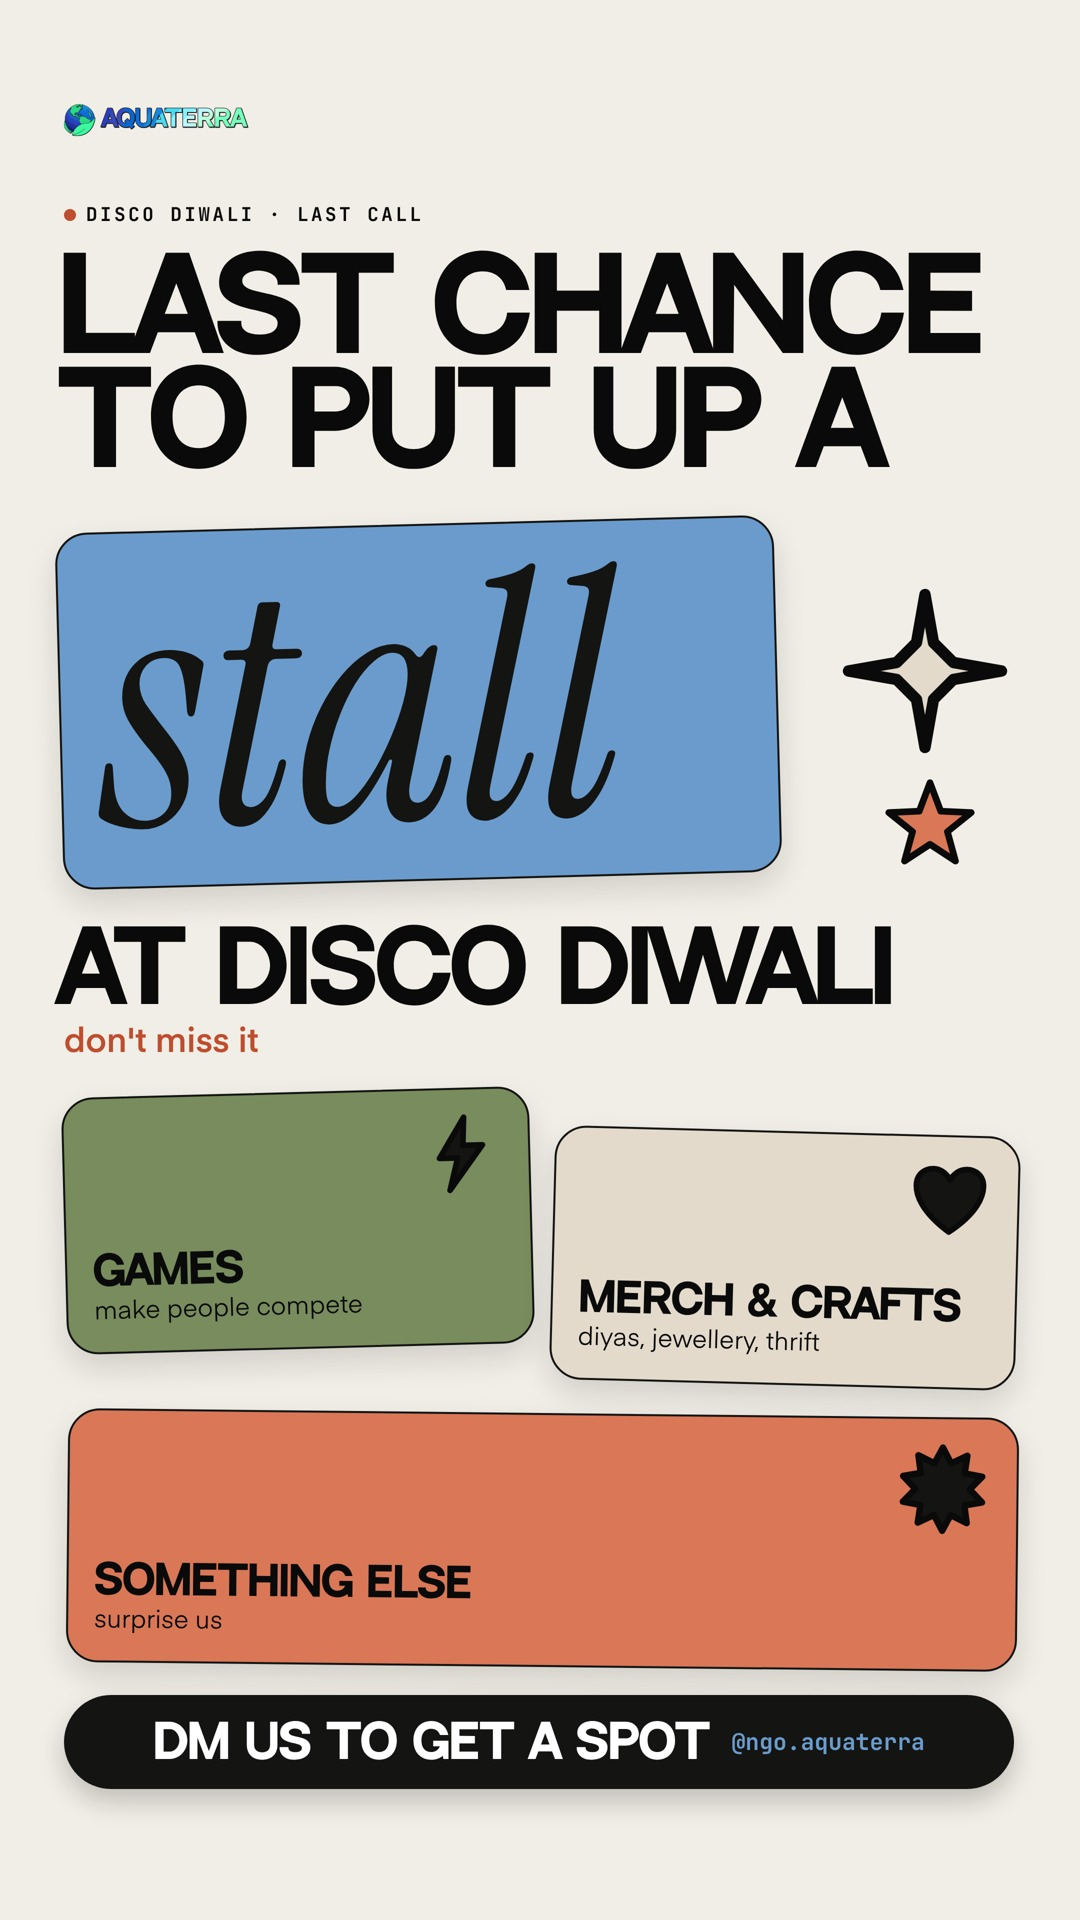
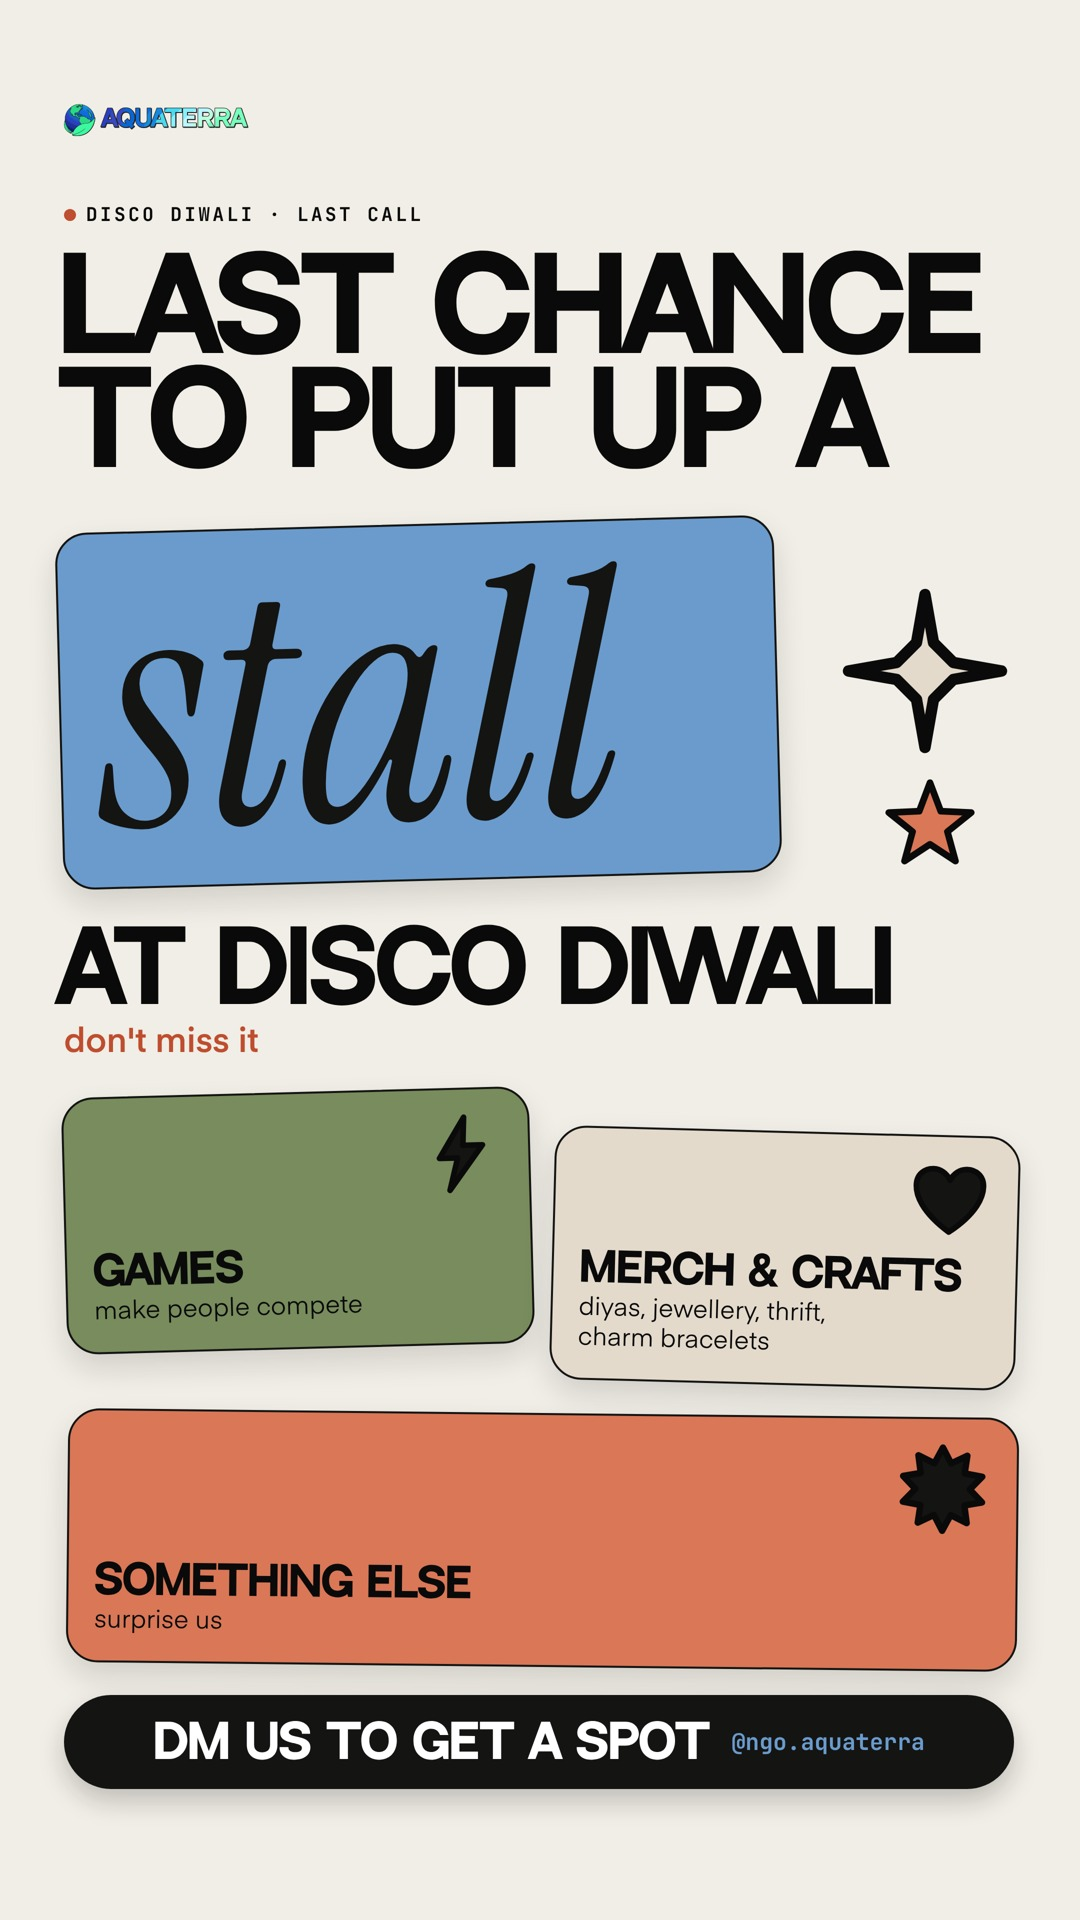
Stall story: add charm bracelets to Merch & Crafts (both versions)
Claude-Session: https://claude.ai/code/session_017A2oA4MRrkhFzniGBhMWFu

Changed region(s): [[0.5194, 0.625, 0.8861, 0.7188]]

diff --git a/scratchpad/dd_stall_call_claude.py b/scratchpad/dd_stall_call_claude.py
@@ -48,9 +48,9 @@ def card(tag, x, y, w, h, fill, rot, title, sub, icon, icon_fill, isz):
                  f'<div data-tag="{tag}_t" style="position:absolute;left:26px;bottom:24px;color:{fg}"><div style="font-family:var(--d);font-weight:900;font-size:40px;line-height:1;text-transform:uppercase;letter-spacing:-.01em">{title}</div>'
                  f'<div style="font-family:var(--e);font-weight:500;font-size:25px;line-height:1.2;margin-top:6px;text-transform:lowercase">{sub}</div></div>'
                  f'<div data-tag="{tag}_i" style="position:absolute;right:26px;top:22px;width:{isz}px;height:{isz}px">{dd.stamp(icon, icon_fill)}</div></div>')
-    els.extend([(tag, x, y, w + 10, h + 10), (tag + "_t", x + 26, y + h - 90, 380, 70), (tag + "_i", x + w - isz - 26, y + 22, isz, isz)])
+    els.extend([(tag, x, y, w + 10, h + 10), (tag + "_t", x + 26, y + h - 124, 400, 104), (tag + "_i", x + w - isz - 26, y + 22, isz, isz)])
 card("c1", 64, 1092, 468, 257, A[5], -1.5, "Games", "make people compete", "lightning", INK, 84)
-card("c2", 552, 1131, 466, 254, A[2], 1.5, "Merch &amp; crafts", "diyas, jewellery, thrift", "heart", INK, 84)
+card("c2", 552, 1131, 466, 254, A[2], 1.5, "Merch &amp; crafts", "diyas, jewellery, thrift,<br>charm bracelets", "heart", INK, 84)
 card("c3", 67, 1413, 951, 254, A[0], .6, "Something else", "surprise us", "burst", INK, 96)
 # CTA pill
 px, py, pw, ph = 64, 1695, 950, 94

diff --git a/scratchpad/dd_stall_call_cream.py b/scratchpad/dd_stall_call_cream.py
@@ -45,9 +45,9 @@ def card(tag, x, y, w, h, fill, rot, title, sub, icon, icon_fill, isz):
                  f'<div data-tag="{tag}_t" style="position:absolute;left:26px;bottom:24px;color:{fg}"><div style="font-family:var(--d);font-weight:900;font-size:40px;line-height:1;text-transform:uppercase;letter-spacing:-.01em">{title}</div>'
                  f'<div style="font-family:var(--e);font-weight:500;font-size:25px;line-height:1.2;margin-top:6px;text-transform:lowercase">{sub}</div></div>'
                  f'<div data-tag="{tag}_i" style="position:absolute;right:26px;top:22px;width:{isz}px;height:{isz}px">{dd.stamp(icon, icon_fill)}</div></div>')
-    els.extend([(tag, x, y, w + 10, h + 10), (tag + "_t", x + 26, y + h - 90, 380, 70), (tag + "_i", x + w - isz - 26, y + 22, isz, isz)])
+    els.extend([(tag, x, y, w + 10, h + 10), (tag + "_t", x + 26, y + h - 124, 400, 104), (tag + "_i", x + w - isz - 26, y + 22, isz, isz)])
 card("c1", 64, 1092, 468, 257, A[5], -1.5, "Games", "make people compete", "lightning", INK, 84)
-card("c2", 552, 1131, 466, 254, A[2], 1.5, "Merch &amp; crafts", "diyas, jewellery, thrift", "heart", INK, 84)
+card("c2", 552, 1131, 466, 254, A[2], 1.5, "Merch &amp; crafts", "diyas, jewellery, thrift,<br>charm bracelets", "heart", INK, 84)
 card("c3", 67, 1413, 951, 254, A[0], .6, "Something else", "surprise us", "burst", INK, 96)
 # CTA pill
 px, py, pw, ph = 64, 1695, 950, 94
